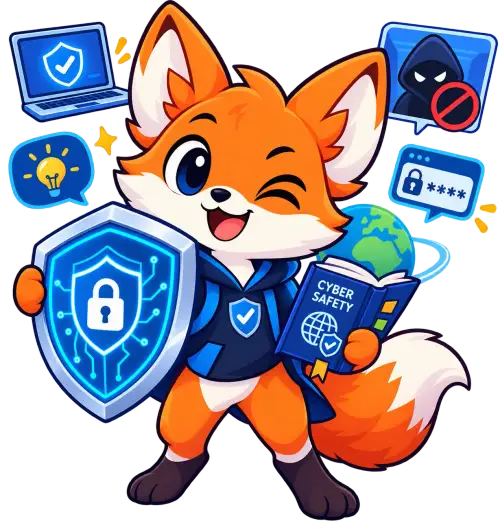
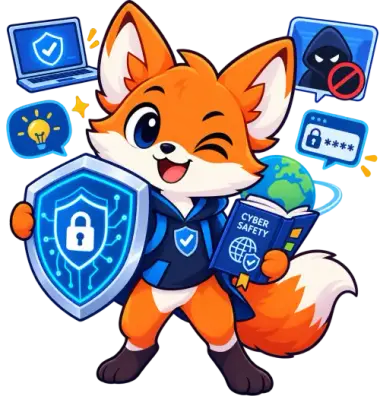
css update

diff --git a/style.css b/style.css
@@ -1,4 +1,23 @@
 /* style.css */
+
+/* Fallback fonts sized to match web fonts — reduces layout shift (CLS) */
+@font-face {
+  font-family: 'Inter Fallback';
+  src: local('Arial');
+  ascent-override: 90%;
+  descent-override: 22%;
+  line-gap-override: 0%;
+  size-adjust: 107%;
+}
+@font-face {
+  font-family: 'Baloo 2 Fallback';
+  src: local('Arial');
+  ascent-override: 95%;
+  descent-override: 25%;
+  line-gap-override: 0%;
+  size-adjust: 112%;
+}
+
 :root {
   --paper: #ffffff;
   --paper-alt: #f8fafc;
@@ -19,8 +38,8 @@
   --shadow-hover: 0 20px 40px rgba(15, 23, 42, 0.12);
   --stick-shadow: 0 12px 32px rgba(63, 196, 91, 0.15);
 
-  --font-sans: 'Inter', system-ui, sans-serif;
-  --font-display: 'Baloo 2', system-ui, sans-serif;
+  --font-sans: 'Inter', 'Inter Fallback', system-ui, sans-serif;
+  --font-display: 'Baloo 2', 'Baloo 2 Fallback', system-ui, sans-serif;
   --font-mono: ui-monospace, SFMono-Regular, Menlo, Monaco, Consolas, monospace;
 }
 
